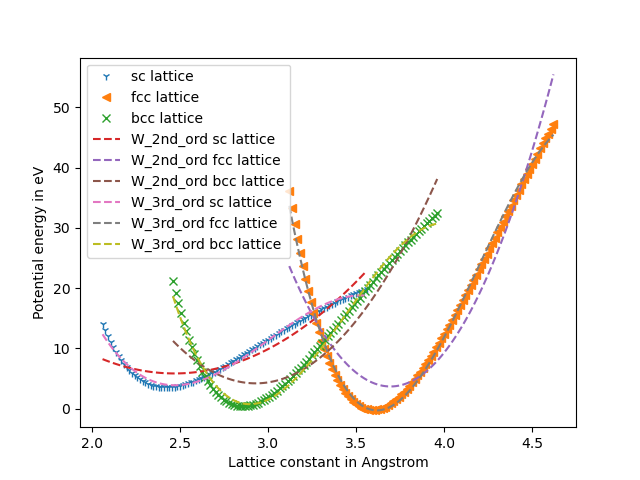
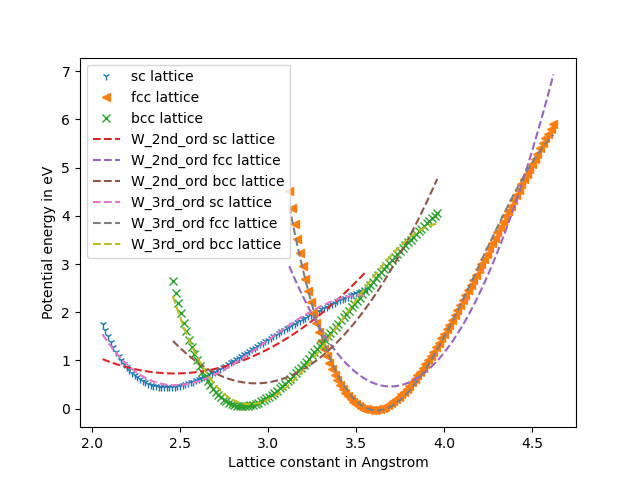
adjusted range to plot latticeconst

Changed region(s): [[0.0312, 0.3438, 0.125, 0.6562], [0.0938, 0.7188, 0.125, 0.75], [0.0938, 0.2188, 0.125, 0.25]]

diff --git a/minimize_energy.py b/minimize_energy.py
@@ -25,7 +25,7 @@ def create_cubic_lattice(lattice_type, L):
 def calculate_latticeconst_epot_traj(lattice_type, L_init):
     traj_file = Trajectory(f'data_min_energy/{lattice_type}.traj', 'w')
     lattice_constants_list = []
-    for L in np.linspace(L_init - 0.1 , L_init + 0.1, 600):
+    for L in np.linspace(L_init - 0.3 , L_init + 0.2, 300):
         lattice_constants_list.append(L) # append current lattice constant
         data = create_cubic_lattice(lattice_type, L)
         data.set_calculator(EMT())
@@ -103,18 +103,19 @@ if __name__ =='__main__':
     fit is not really optimal
     2nd ord poly not ideal for theses kinds of curvature?
     '''
-    
     '''
     def W_3rd_ord(L, p_0, p_1, p_2, p_3):
         return p_0 + p_1 * L + p_2 * L ** 2 + p_3 * L ** 3
+    
     def dW_3rd_ord(L, p_array):
         return p_array[0] + 2 * p_array[1] * L + 3 * p_array[2] * L**2
     
     roots_dict, func_name = fit_L_min_epot(W_3rd_ord, dW_3rd_ord, data_dict)
-    '''
+    
     roots_fit_dict[func_name] = roots_dict
-
+    
     save_data_to_json(roots_fit_dict, 'data_min_energy/lattice_consts')
+    '''
     print("Lattice constants: \n"
         "Sc {L_sc} \nbcc {L_bcc}"
         "\nfcc {L_fcc} ".format(L_sc=roots_dict['sc'],
